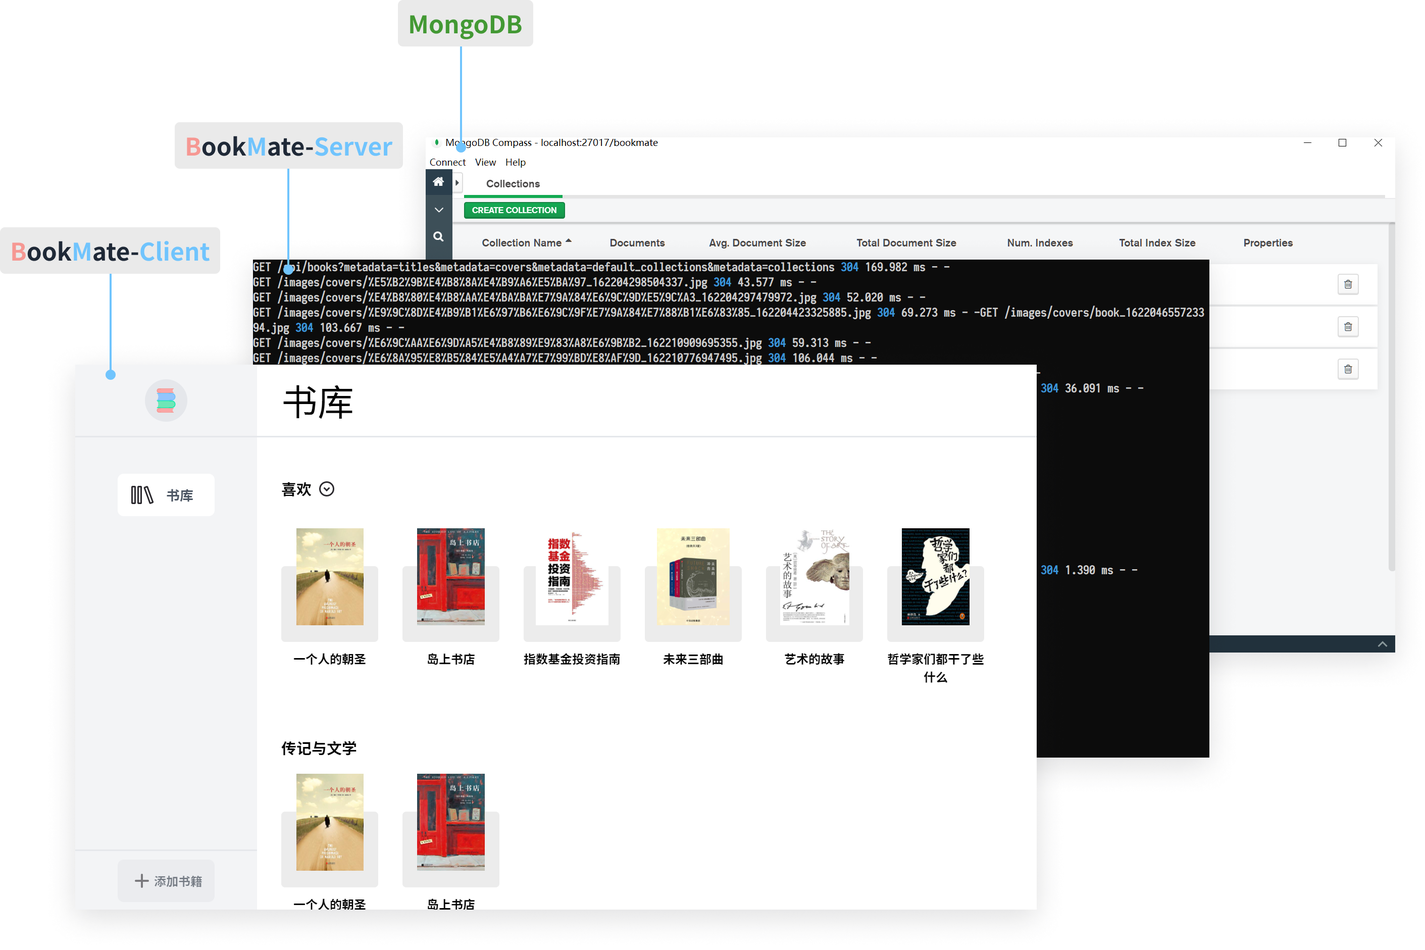
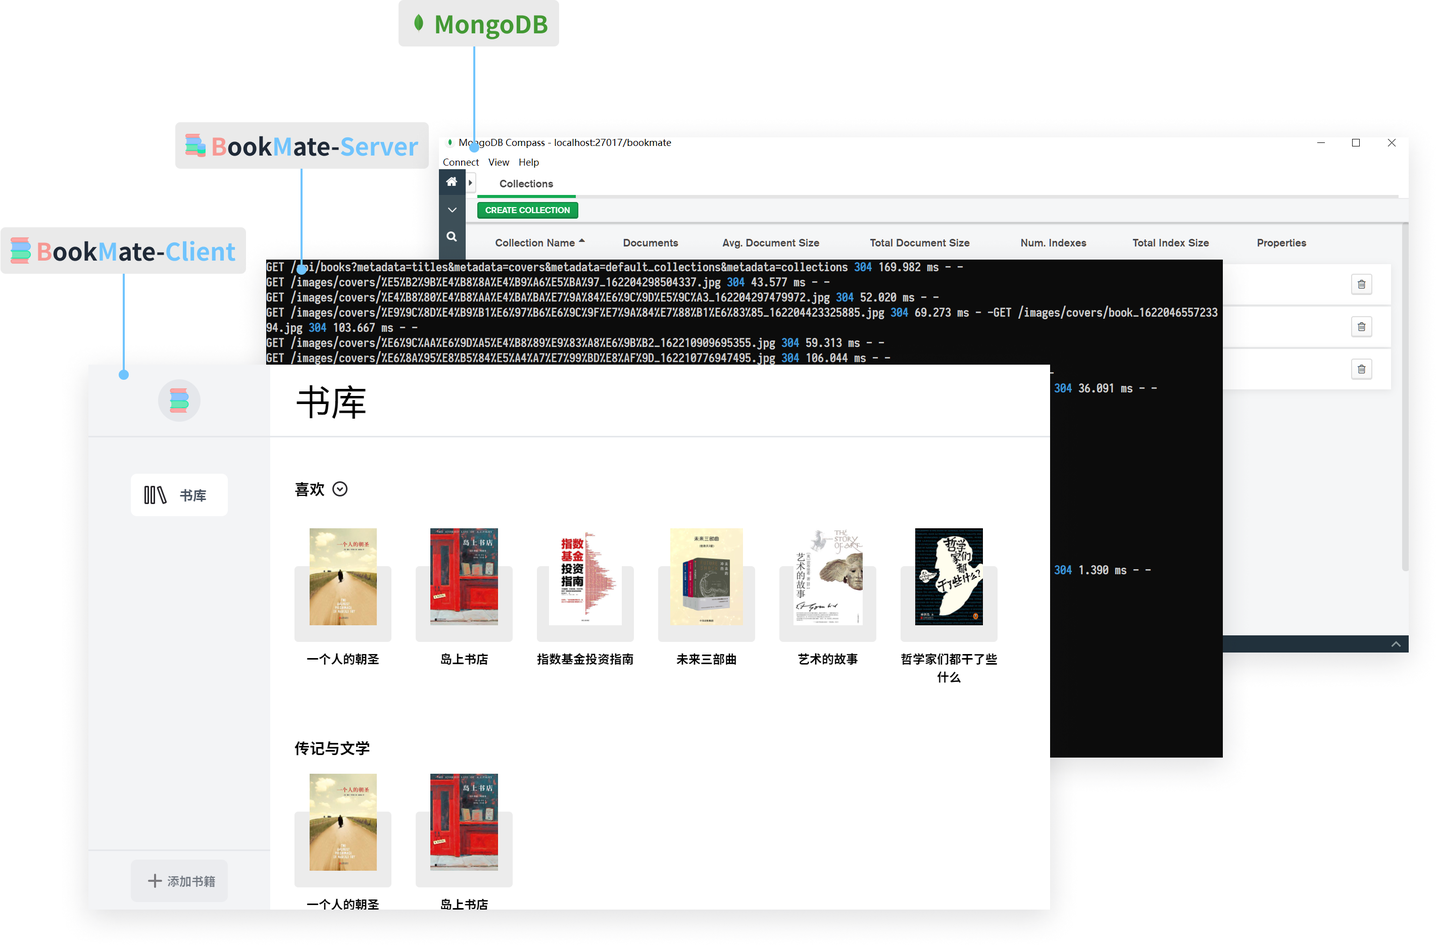
finish bookmate introductin page.

diff --git a/docs/src/index.html b/docs/src/index.html
@@ -13,32 +13,46 @@
 
 <body class="bg-gray-50 relative">
   <nav class="sticky top-0 bg-gray-50">
-    <div class="container mx-auto px-4 sm:px-16 py-2 flex justify-between">
-      <img class="w-6" src="./images/logos/BookMate.svg" alt="bookmate logo">
+    <div class="px-4 sm:px-8 md:px-16 py-2 flex justify-between">
+      <a class="px-4 py-2 hover:bg-gray-200 rounded" href="#">
+        <img class="w-6" src="./images/logos/BookMate.svg" alt="bookmate logo">
+      </a>
       <div class="flex space-x-2">
-        <button
-          class="px-4 py-2  bg-gray-200 hover:bg-green-500 text-gray-500 hover:text-white text-sm font-bold rounded transform transition-colors">
-          <!-- <svg class="w-6 h-6" viewBox="0 0 50 50" fill="currentColor" xmlns="http://www.w3.org/2000/svg">
-          <path
-            d="M25 50C31.901 50 37.793 47.5586 42.6758 42.6758C47.5586 37.793 50 31.901 50 25C50 18.099 47.5586 12.207 42.6758 7.32422C37.793 2.44141 31.901 0 25 0C18.099 0 12.207 2.44141 7.32422 7.32422C2.44141 12.207 0 18.099 0 25C0 31.901 2.44141 37.793 7.32422 42.6758C12.207 47.5586 18.099 50 25 50ZM25 4.19922C30.7292 4.19922 35.6283 6.23372 39.6973 10.3027C43.7663 14.3717 45.8008 19.2708 45.8008 25C45.8008 30.7292 43.7663 35.6283 39.6973 39.6973C35.6283 43.7663 30.7292 45.8008 25 45.8008C19.2708 45.8008 14.3717 43.7663 10.3027 39.6973C6.23372 35.6283 4.19922 30.7292 4.19922 25C4.19922 19.2708 6.23372 14.3717 10.3027 10.3027C14.3717 6.23372 19.2708 4.19922 25 4.19922ZM23.7305 34.9609L23.9258 35.2539H26.0742C26.2044 35.2539 26.2695 35.1562 26.2695 34.9609L32.5195 30.8594C33.6263 30.0781 33.8216 29.1016 33.1055 27.9297C32.4544 26.7578 31.4779 26.5299 30.1758 27.2461L27.2461 29.3945V16.6992C27.2461 15.2669 26.5625 14.5508 25.1953 14.5508C23.8281 14.5508 23.1445 15.2669 23.1445 16.6992V29.3945L20.2148 27.2461C18.9128 26.5299 17.9362 26.7578 17.2852 27.9297C16.6341 29.1667 16.8294 30.1432 17.8711 30.8594L23.7305 34.9609Z" />
-        </svg> -->
-          下载
-        </button>
-        <a
-          class="px-4 py-2 bg-gray-200 hover:bg-green-500 text-gray-500 hover:text-white text-sm font-bold rounded transform transition-colors"
+        <a class="px-4 py-2 flex items-center space-x-1 bg-gray-200 hover:bg-green-500 text-gray-500 hover:text-white rounded transform transition-colors"
+          href="#download">
+          <svg xmlns="http://www.w3.org/2000/svg" class="w-4 h-4" fill="currentColor"
+            class="bi bi-cloud-arrow-down-fill" viewBox="0 0 16 16">
+            <path
+              d="M8 2a5.53 5.53 0 0 0-3.594 1.342c-.766.66-1.321 1.52-1.464 2.383C1.266 6.095 0 7.555 0 9.318 0 11.366 1.708 13 3.781 13h8.906C14.502 13 16 11.57 16 9.773c0-1.636-1.242-2.969-2.834-3.194C12.923 3.999 10.69 2 8 2zm2.354 6.854-2 2a.5.5 0 0 1-.708 0l-2-2a.5.5 0 1 1 .708-.708L7.5 9.293V5.5a.5.5 0 0 1 1 0v3.793l1.146-1.147a.5.5 0 0 1 .708.708z" />
+          </svg>
+          <span class="text-sm font-bold hidden sm:block">下载</span>
+        </a>
+        <a class="px-4 py-2 flex items-center space-x-1 bg-gray-200 hover:bg-green-500 text-gray-500 hover:text-white rounded transform transition-colors"
+          href="#" target="_blank">
+          <svg xmlns="http://www.w3.org/2000/svg" class="w-4 h-4" fill="currentColor" viewBox="0 0 16 16">
+            <path
+              d="M9.293 0H4a2 2 0 0 0-2 2v12a2 2 0 0 0 2 2h8a2 2 0 0 0 2-2V4.707A1 1 0 0 0 13.707 4L10 .293A1 1 0 0 0 9.293 0zM9.5 3.5v-2l3 3h-2a1 1 0 0 1-1-1zM4.5 9a.5.5 0 0 1 0-1h7a.5.5 0 0 1 0 1h-7zM4 10.5a.5.5 0 0 1 .5-.5h7a.5.5 0 0 1 0 1h-7a.5.5 0 0 1-.5-.5zm.5 2.5a.5.5 0 0 1 0-1h4a.5.5 0 0 1 0 1h-4z" />
+          </svg>
+          <span class="text-sm font-bold hidden sm:block">文档</span>
+        </a>
+        <a class="px-4 py-2 flex items-center space-x-1 bg-gray-200 hover:bg-green-500 text-gray-500 hover:text-white rounded transform transition-colors"
           href="https://github.com/Benbinbin/BookMate" target="_blank">
-          Github
+          <svg xmlns="http://www.w3.org/2000/svg" class="w-4 h-4" fill="currentColor" viewBox="0 0 32 32">
+            <path
+              d="M16 0.396c-8.839 0-16 7.167-16 16 0 7.073 4.584 13.068 10.937 15.183 0.803 0.151 1.093-0.344 1.093-0.772 0-0.38-0.009-1.385-0.015-2.719-4.453 0.964-5.391-2.151-5.391-2.151-0.729-1.844-1.781-2.339-1.781-2.339-1.448-0.989 0.115-0.968 0.115-0.968 1.604 0.109 2.448 1.645 2.448 1.645 1.427 2.448 3.744 1.74 4.661 1.328 0.14-1.031 0.557-1.74 1.011-2.135-3.552-0.401-7.287-1.776-7.287-7.907 0-1.751 0.62-3.177 1.645-4.297-0.177-0.401-0.719-2.031 0.141-4.235 0 0 1.339-0.427 4.4 1.641 1.281-0.355 2.641-0.532 4-0.541 1.36 0.009 2.719 0.187 4 0.541 3.043-2.068 4.381-1.641 4.381-1.641 0.859 2.204 0.317 3.833 0.161 4.235 1.015 1.12 1.635 2.547 1.635 4.297 0 6.145-3.74 7.5-7.296 7.891 0.556 0.479 1.077 1.464 1.077 2.959 0 2.14-0.020 3.864-0.020 4.385 0 0.416 0.28 0.916 1.104 0.755 6.4-2.093 10.979-8.093 10.979-15.156 0-8.833-7.161-16-16-16z" />
+          </svg>
+          <span class="text-sm font-bold hidden sm:block">Github</span>
         </a>
       </div>
-
     </div>
   </nav>
   <header class="my-32 flex flex-col justify-center items-center">
     <div class="container">
       <img class="w-2/5 mx-auto" src="./images/logos/BookMate-logo-font.svg" alt="BookMate logo">
     </div>
-    <h2 class="my-16 md:my-16 text-center text-xl md:text-xl lg:text-2xl text-gray-600">一款开源的书摘管理软件</h2>
-    <button class="py-4 px-8 bg-green-400 hover:bg-green-500 text-white text-lg font-bold rounded-lg">下载</button>
+    <h2 class="my-16 md:my-16 text-center text-xl md:text-xl lg:text-2xl text-gray-500">一款<a
+        class="text-blue-500 underline" href="#license">开源</a>的书摘管理软件</h2>
+    <a class="py-4 px-8 bg-green-400 hover:bg-green-500 text-white text-lg font-bold rounded-lg" href="#download">下载</a>
   </header>
   <div class="container mx-auto my-16">
     <img class="w-4/5 mx-auto my-36" src="./images/screenshots/homepage.png" alt="homepage screenshot">
@@ -48,8 +62,8 @@
           class="flex-shrink-0 bg-gray-200 w-10 h-10  sm:w-20 sm:h-20 flex justify-center items-center  rounded-full">
           <img class="h-6 sm:h-10" src="./images/logos/BookMate.png" alt="bookmate logo">
         </div>
-        <div class="font-bold text-gray-500">
-          <h3 class="text-sm sm:text-base md:text-lg"><span style="color: #F69893">B</span>ook<span
+        <div class="hidden sm:block font-bold text-gray-500">
+          <h3 class="block text-sm sm:text-base md:text-lg"><span style="color: #F69893">B</span>ook<span
               style="color:#70C4FD">M</span>ate-<span style="color:#70C4FD">Client</span></h3>
           <p class="text-sm">交互界面</p>
         </div>
@@ -58,19 +72,18 @@
         <div class="flex-shrink-0 bg-gray-200 w-10 h-10 sm:w-20 sm:h-20 flex justify-center items-center  rounded-full">
           <img class="h-6 sm:h-10" src="./images/logos/BookMate-Server.png" alt="bookmate server logo">
         </div>
-        <div class="font-bold text-gray-500">
-          <h3 class=" text-sm sm:text-base md:text-lg"><span style="color: #F69893">B</span>ook<span
+        <div class="hidden sm:block font-bold text-gray-500">
+          <h3 class="block text-sm sm:text-base md:text-lg"><span style="color: #F69893">B</span>ook<span
               style="color:#70C4FD">M</span>ate-<span style="color:#70C4FD">Server</span></h3>
           <p class="text-sm">服务端</p>
         </div>
-
       </div>
       <div class="flex flex-col md:flex-row items-center space-x-4 space-y-4">
-        <div class="flex-shrink-0 bg-gray-200 w-10 h-10 sm:w-20 sm:h-20 flex justify-center items-center  rounded-full">
-          <img class="h-6 sm:h-10" src="./images/logos/mongodb-original.svg" alt="mongodb logo">
+        <div class="flex-shrink-0 bg-gray-200 w-10 h-10 sm:w-20 sm:h-20 flex justify-center items-center rounded-full">
+          <img class="h-6 sm:h-10" src="./images/logos/mongodb.svg" alt="mongodb logo">
         </div>
-        <div class="font-bold text-gray-500">
-          <h3 class=" text-sm sm:text-base md:text-lg"><span style="color: #439934">MongoDB</span></h3>
+        <div class="hidden sm:block font-bold text-gray-500">
+          <h3 class="block text-sm sm:text-base md:text-lg"><span style="color: #439934">MongoDB</span></h3>
           <p class="text-sm">数据库</p>
         </div>
       </div>
@@ -92,18 +105,18 @@
           <path
             d="M20.8333 16.6666C21.3859 16.6666 21.9158 16.8861 22.3065 17.2768C22.6972 17.6675 22.9167 18.1974 22.9167 18.75V31.25C22.9167 31.8025 22.6972 32.3324 22.3065 32.7231C21.9158 33.1138 21.3859 33.3333 20.8333 33.3333C20.2808 33.3333 19.7509 33.1138 19.3602 32.7231C18.9695 32.3324 18.75 31.8025 18.75 31.25V18.75C18.75 18.1974 18.9695 17.6675 19.3602 17.2768C19.7509 16.8861 20.2808 16.6666 20.8333 16.6666V16.6666ZM23.9583 11.4583C23.9583 12.2871 23.6291 13.082 23.0431 13.668C22.457 14.2541 21.6621 14.5833 20.8333 14.5833C20.0045 14.5833 19.2097 14.2541 18.6236 13.668C18.0376 13.082 17.7083 12.2871 17.7083 11.4583C17.7083 10.6295 18.0376 9.83466 18.6236 9.2486C19.2097 8.66255 20.0045 8.33331 20.8333 8.33331C21.6621 8.33331 22.457 8.66255 23.0431 9.2486C23.6291 9.83466 23.9583 10.6295 23.9583 11.4583V11.4583Z" />
         </svg>
-        <p class="text-xs text-gray-400 ">当前提供的 BookMate 版本运行在本地，你可以修改<a class="text-blue-500 underline"
-            href="https://github.com/Benbinbin/BookMate" target="_blank">源码</a> 将它部署在任何地方。
+        <p class="text-xs text-gray-400">当前提供的 BookMate 版本运行在本地，你可以修改<a class="text-blue-500 underline"
+            href="https://github.com/Benbinbin/BookMate" target="_blank">源码</a>将它部署在任何地方。
         </p>
       </div>
 
     </div>
   </div>
-  <section class="container w-4/5 py-28 mx-auto flex flex-col lg:flex-row justify-between space-x-8 space-y-6">
+  <section class="container w-4/5 py-28 mx-auto flex flex-col lg:flex-row justify-between lg:space-x-8 space-y-6">
     <div>
-      <h3 class="font-bold text-2xl"> <span class='px-1 highlight-blue'>添加书籍</span> </h3>
-      <p class="my-4">添加书籍时可以录入多种元数据，其中必须的只有书名。</p>
-      <ul class="list-disc mx-6 text-sm text-gray-500">
+      <h3 class="font-bold text-2xl text-gray-600"> <span class='px-1 highlight-blue'>添加书籍</span> </h3>
+      <p class="my-4 text-gray-500">添加书籍时可以录入多种元数据，其中必须的只有书名。</p>
+      <ul class="list-disc mx-6 text-sm text-gray-400">
         <li>书名（必须）</li>
         <li>目录</li>
         <li>作者</li>
@@ -115,15 +128,15 @@
     <img class="w-full lg:w-3/4 object-contain" src="./images/screenshots/metadata.png" alt="book metadata">
   </section>
   <section
-    class="container w-4/5 py-28 mx-auto flex flex-col lg:flex-row-reverse justify-between space-x-8 space-x-reverse space-y-6">
+    class="container w-4/5 py-28 mx-auto flex flex-col lg:flex-row-reverse justify-between lg:space-x-8 lg:space-x-reverse space-y-6">
     <div>
-      <h3 class="font-bold text-2xl lg:text-right"> <span class='px-1 highlight-blue'>添加书摘</span></h3>
-      <p class="my-4">提供两种方式为书籍添加书摘。可以将 Kindle 等阅读应用生成的书摘文件导入；也可以手动添加。</p>
-      <p class="my-4">导入的书摘也可以进行修改，书摘可以是常见的富文本内容，编辑器支持快捷键。</p>
+      <h3 class="font-bold text-2xl lg:text-right text-gray-600"> <span class='px-1 highlight-blue'>添加书摘</span></h3>
+      <p class="my-4 text-gray-500">提供两种方式为书籍添加书摘。可以将 Kindle 等阅读应用生成的书摘文件导入；也可以手动添加。</p>
+      <p class="my-4 text-gray-500">导入的书摘也可以进行修改，书摘可以是常见的富文本内容，编辑器支持快捷键。</p>
       <div class="flex space-x-4">
         <div>
-          <p class="my-4">批量导入</p>
-          <ul class="list-disc mx-6 text-sm text-gray-500">
+          <p class="my-4 text-gray-500">批量导入</p>
+          <ul class="list-disc mx-6 text-sm text-gray-400">
             <li>Kindle</li>
             <li class="text-gray-300">豆瓣</li>
             <li class="text-gray-300">多看阅读</li>
@@ -131,8 +144,8 @@
           </ul>
         </div>
         <div>
-          <p class="my-4">手动输入</p>
-          <ul class="list-disc mx-6 text-sm text-gray-500">
+          <p class="my-4 text-gray-500">手动输入</p>
+          <ul class="list-disc mx-6 text-sm text-gray-400">
             <li>标题</li>
             <li>链接</li>
             <li>图片</li>
@@ -148,13 +161,13 @@
       <img class="w-2/5 object-contain lg:ml-auto" src="./images/screenshots/input-quote.png" alt="book metadata">
     </div>
   </section>
-  <section class="container w-4/5 py-28 mx-auto flex flex-col lg:flex-row justify-between space-x-8 space-y-6">
+  <section class="container w-4/5 py-28 mx-auto flex flex-col lg:flex-row justify-between lg:space-x-8 space-y-6">
     <div>
-      <h3 class="font-bold text-2xl"> <span class='px-1 highlight-blue'>概述笔记</span> </h3>
-      <p class="my-4">读书要从薄到厚，再从厚到薄。</p>
-      <p class="my-4">基于书摘为书籍、章节梳理概述，便于对书籍有整体的掌握。</p>
-      <p class="my-4">也可以针对阅读遇到的问题，将研究过程整理成笔记，便于深入理解书籍。</p>
-      <ul class="list-disc mx-6 text-sm text-gray-500">
+      <h3 class="font-bold text-2xl text-gray-600"> <span class='px-1 highlight-blue'>概述笔记</span> </h3>
+      <p class="my-4 text-gray-500">读书要从薄到厚，再从厚到薄。</p>
+      <p class="my-4 text-gray-500">基于书摘为书籍、章节梳理概述，便于对书籍有整体的掌握。</p>
+      <p class="my-4 text-gray-500">也可以针对阅读遇到的问题，将研究过程整理成笔记，便于深入理解书籍。</p>
+      <ul class="list-disc mx-6 text-sm text-gray-400">
         <li>拖拽插入书摘</li>
         <li>标题</li>
         <li>链接</li>
@@ -166,11 +179,11 @@
     <img class="w-full lg:w-3/4 object-contain" src="./images/screenshots/summary.png" alt="book metadata">
   </section>
   <section
-    class="container w-4/5 py-28 mx-auto flex flex-col lg:flex-row-reverse justify-between space-x-8 space-x-reverse space-y-6">
+    class="container w-4/5 py-28 mx-auto flex flex-col lg:flex-row-reverse justify-between lg:space-x-8 lg:space-x-reverse space-y-6">
     <div>
-      <h3 class="font-bold text-2xl lg:text-right"> <span class='px-1 highlight-blue'>分享书摘</span> </h3>
-      <p class="my-4">分享功能可以将单篇或多篇书摘的原始数据转换为你喜欢的格式。</p>
-      <ul class="list-disc mx-6 text-sm text-gray-500">
+      <h3 class="font-bold text-2xl lg:text-right text-gray-600"> <span class='px-1 highlight-blue'>分享书摘</span> </h3>
+      <p class="my-4 text-gray-500">分享功能可以将单篇或多篇书摘的原始数据转换为你喜欢的格式。</p>
+      <ul class="list-disc mx-6 text-sm text-gray-400">
         <li>图片</li>
         <li>Markdown 文档</li>
         <li>JSON 文档</li>
@@ -178,6 +191,128 @@
     </div>
     <img class="w-full object-contain lg:w-1/2" src="./images/screenshots/share.png" alt="book metadata">
   </section>
+
+  <div>
+    <h2 id="download" class="mt-28 text-3xl font-bold text-center"><span class="highlight px-2">下载</span></h2>
+    <p class="my-8 text-sm font-bold text-gray-400 text-center">版本<span
+        class="px-2 py-1 mx-1 bg-blue-500 text-white rounded text-xs">V0.1.0-alpha</span>请选择合适的平台和下载源</p>
+    <div class="container w-4/5 mx-auto grid grid-cols-1 sm:grid-cols-2 gap-x-4 sm:divide-x divide-gray-300">
+      <div class="my-10">
+        <h3 class="text-2xl text-center font-bold"><span style="color: #F69893">B</span>ook<span
+            style="color:#70C4FD">M</span>ate
+        </h3>
+        <p class="text-sm text-center text-gray-400 font-bold">客户端、服务端</p>
+        <div class="my-4 flex flex-col lg:flex-row justify-center items-center space-y-2 lg:space-y-0 lg:space-x-2">
+          <a class="w-36 h-16 p-4 flex justify-start items-center bg-gray-200 hover:bg-green-500 text-gray-500  hover:text-white font-bold rounded-lg space-x-2"
+            href="#">
+            <img class="w-5" src="./images/icons/Windows.svg" alt="Windows icon">
+            <span>Windows</span>
+          </a>
+          <a class="w-36 h-16 p-4 flex justify-start items-center bg-gray-200 hover:bg-green-500 text-gray-500  hover:text-white font-bold rounded-lg space-x-2"
+            href="#">
+            <img class="w-8" src="./images/icons/macOS.png" alt="Windows icon">
+            <span>macOS</span>
+          </a>
+          <a class="w-36 h-16 p-4 flex justify-start items-center bg-gray-200 hover:bg-green-500 text-gray-500 hover:text-white font-bold rounded-lg space-x-2"
+            href="#">
+            <img class="w-8" src="./images/icons/Linux.png" alt="Windows icon">
+            <span>Linux</span>
+          </a>
+        </div>
+        <div class="my-2 flex justify-center items-center">
+          <svg class="flex-shrink-0 w-4 text-yellow-300 mr-1" viewBox="0 0 42 42" fill="currentColor"
+            xmlns="http://www.w3.org/2000/svg">
+            <path
+              d="M20.8333 4.16667C16.4131 4.16667 12.1738 5.92261 9.04822 9.04822C5.92261 12.1738 4.16667 16.4131 4.16667 20.8333C4.16667 25.2536 5.92261 29.4928 9.04822 32.6184C12.1738 35.7441 16.4131 37.5 20.8333 37.5C25.2536 37.5 29.4928 35.7441 32.6184 32.6184C35.7441 29.4928 37.5 25.2536 37.5 20.8333C37.5 16.4131 35.7441 12.1738 32.6184 9.04822C29.4928 5.92261 25.2536 4.16667 20.8333 4.16667V4.16667ZM0 20.8333C0 9.32708 9.32708 0 20.8333 0C32.3396 0 41.6667 9.32708 41.6667 20.8333C41.6667 32.3396 32.3396 41.6667 20.8333 41.6667C9.32708 41.6667 0 32.3396 0 20.8333Z" />
+            <path
+              d="M20.8333 16.6666C21.3859 16.6666 21.9158 16.8861 22.3065 17.2768C22.6972 17.6675 22.9167 18.1974 22.9167 18.75V31.25C22.9167 31.8025 22.6972 32.3324 22.3065 32.7231C21.9158 33.1138 21.3859 33.3333 20.8333 33.3333C20.2808 33.3333 19.7509 33.1138 19.3602 32.7231C18.9695 32.3324 18.75 31.8025 18.75 31.25V18.75C18.75 18.1974 18.9695 17.6675 19.3602 17.2768C19.7509 16.8861 20.2808 16.6666 20.8333 16.6666V16.6666ZM23.9583 11.4583C23.9583 12.2871 23.6291 13.082 23.0431 13.668C22.457 14.2541 21.6621 14.5833 20.8333 14.5833C20.0045 14.5833 19.2097 14.2541 18.6236 13.668C18.0376 13.082 17.7083 12.2871 17.7083 11.4583C17.7083 10.6295 18.0376 9.83466 18.6236 9.2486C19.2097 8.66255 20.0045 8.33331 20.8333 8.33331C21.6621 8.33331 22.457 8.66255 23.0431 9.2486C23.6291 9.83466 23.9583 10.6295 23.9583 11.4583V11.4583Z" />
+          </svg>
+          <p class="text-gray-400 text-sm">安装及使用教程请查看<a class="text-blue-500 underline rounded" href="#"
+              target="_blank">文档</a>
+          </p>
+        </div>
+        <div class="flex justify-center items-center space-x-2">
+          <span class="text-gray-400 text-sm">其他下载源</span>
+          <a class="p-2 flex justify-start items-center space-x-1 bg-gray-200 hover:bg-green-500 hover:text-white rounded"
+            href="#">
+            <svg class="w-4 h-4" fill="currentColor" role="img" viewBox="0 0 24 24" xmlns="http://www.w3.org/2000/svg">
+              <title>Gitee icon</title>
+              <path
+                d="M11.984 0A12 12 0 0 0 0 12a12 12 0 0 0 12 12 12 12 0 0 0 12-12A12 12 0 0 0 12 0a12 12 0 0 0-.016 0zm6.09 5.333c.328 0 .593.266.592.593v1.482a.594.594 0 0 1-.593.592H9.777c-.982 0-1.778.796-1.778 1.778v5.63c0 .327.266.592.593.592h5.63c.982 0 1.778-.796 1.778-1.778v-.296a.593.593 0 0 0-.592-.593h-4.15a.592.592 0 0 1-.592-.592v-1.482a.593.593 0 0 1 .593-.592h6.815c.327 0 .593.265.593.592v3.408a4 4 0 0 1-4 4H5.926a.593.593 0 0 1-.593-.593V9.778a4.444 4.444 0 0 1 4.445-4.444h8.296Z" />
+            </svg>
+            <span class="font-bold text-xs">Gitee</span>
+          </a>
+          <a class="p-2 flex justify-start items-center space-x-1 bg-gray-200 hover:bg-green-500 hover:text-white rounded"
+            href="#">
+            <svg xmlns="http://www.w3.org/2000/svg" class="w-4 h-4" fill="currentColor" class="bi bi-cloud-fill"
+              viewBox="0 0 16 16">
+              <title>Nutstore icon</title>
+              <path
+                d="M4.406 3.342A5.53 5.53 0 0 1 8 2c2.69 0 4.923 2 5.166 4.579C14.758 6.804 16 8.137 16 9.773 16 11.569 14.502 13 12.687 13H3.781C1.708 13 0 11.366 0 9.318c0-1.763 1.266-3.223 2.942-3.593.143-.863.698-1.723 1.464-2.383z" />
+            </svg>
+            <span class="font-bold text-xs">坚果云</span>
+          </a>
+          </p>
+        </div>
+      </div>
+      <div class="my-10">
+        <h3 class="text-2xl text-center font-bold" style="color: #439934">MongoDB</h3>
+        <p class="text-sm text-center text-gray-400 font-bold">数据库</p>
+        <div class="my-4 flex flex-col justify-center items-center">
+          <a class="w-36 h-16 p-4 flex justify-center items-center bg-gray-200 hover:bg-green-500 text-gray-500  hover:text-white font-bold rounded-lg space-x-2"
+            href="https://www.mongodb.com/try/download/community" target="_blank">
+            <img class="w-8" src="./images/logos/mongodb.svg" alt="mongodb icon">
+            <span>官网下载</span>
+          </a>
+          <div class="my-6 flex items-center">
+            <svg class="flex-shrink-0 w-4 text-yellow-300 mr-1" viewBox="0 0 42 42" fill="currentColor"
+              xmlns="http://www.w3.org/2000/svg">
+              <path
+                d="M20.8333 4.16667C16.4131 4.16667 12.1738 5.92261 9.04822 9.04822C5.92261 12.1738 4.16667 16.4131 4.16667 20.8333C4.16667 25.2536 5.92261 29.4928 9.04822 32.6184C12.1738 35.7441 16.4131 37.5 20.8333 37.5C25.2536 37.5 29.4928 35.7441 32.6184 32.6184C35.7441 29.4928 37.5 25.2536 37.5 20.8333C37.5 16.4131 35.7441 12.1738 32.6184 9.04822C29.4928 5.92261 25.2536 4.16667 20.8333 4.16667V4.16667ZM0 20.8333C0 9.32708 9.32708 0 20.8333 0C32.3396 0 41.6667 9.32708 41.6667 20.8333C41.6667 32.3396 32.3396 41.6667 20.8333 41.6667C9.32708 41.6667 0 32.3396 0 20.8333Z" />
+              <path
+                d="M20.8333 16.6666C21.3859 16.6666 21.9158 16.8861 22.3065 17.2768C22.6972 17.6675 22.9167 18.1974 22.9167 18.75V31.25C22.9167 31.8025 22.6972 32.3324 22.3065 32.7231C21.9158 33.1138 21.3859 33.3333 20.8333 33.3333C20.2808 33.3333 19.7509 33.1138 19.3602 32.7231C18.9695 32.3324 18.75 31.8025 18.75 31.25V18.75C18.75 18.1974 18.9695 17.6675 19.3602 17.2768C19.7509 16.8861 20.2808 16.6666 20.8333 16.6666V16.6666ZM23.9583 11.4583C23.9583 12.2871 23.6291 13.082 23.0431 13.668C22.457 14.2541 21.6621 14.5833 20.8333 14.5833C20.0045 14.5833 19.2097 14.2541 18.6236 13.668C18.0376 13.082 17.7083 12.2871 17.7083 11.4583C17.7083 10.6295 18.0376 9.83466 18.6236 9.2486C19.2097 8.66255 20.0045 8.33331 20.8333 8.33331C21.6621 8.33331 22.457 8.66255 23.0431 9.2486C23.6291 9.83466 23.9583 10.6295 23.9583 11.4583V11.4583Z" />
+            </svg>
+            <p class="text-gray-400 text-sm">推荐<span class="highlight">同时安装</span><a
+                class="p-1 mx-1 text-xs text-white underline bg-blue-500 rounded"
+                href="https://www.mongodb.com/try/download/compass" target="_blank">MongoDB Compass</a>
+            </p>
+          </div>
+        </div>
+      </div>
+    </div>
+  </div>
+
+  <div class="my-10">
+    <h2 id="license" class="mt-28 text-3xl font-bold text-center"><span class="highlight px-2">协议</span></h2>
+    <p class="m-8 text-center text-sm font-bold text-gray-500 ">客户端
+        <!-- <span style="color: #F69893">B</span>ook<span style="color:#70C4FD">M</span>ate</span>-<span
+        style="color:#70C4FD">Client</span> 和服务端 <span class="text-center "><span
+          style="color: #F69893">B</span>ook<span style="color:#70C4FD">M</span>ate</span>-<span
+        style="color:#70C4FD">Server</span>  -->
+        <span class="highlight">BookMate-Client</span> 和服务端 <span class="highlight">BookMate-Server</span>
+        遵循 <a class="text-blue-500 underline"
+        href="https://github.com/Benbinbin/BookMate/blob/main/LICENSE" target="_blank">MIT</a> 协议</p>
+  </div>
+  <footer class="bg-gray-200 py-10">
+    <div class="container w-4/5 mx-auto flex flex-col sm:flex-row space-y-2 sm:space-y-0 justify-between items-center">
+      <a href="https://github.com/Benbinbin" target="_blank">
+        <img class="w-10 h-10 rounded-full" src="https://avatars.githubusercontent.com/u/40909550" alt="avatar icon">
+      </a>
+      <p class="text-center text-sm">
+        &copy;<span id="year"></span>
+        <a class="author text-blue-500" href="https://github.com/Benbinbin" target="_blank">BenThomson</a>. All Right
+        Reserved.
+      </p>
+      <a href="mailto:benthomsonbin@gmail.com">
+        <img class="w-8 h-8" src="./images/icons/email.svg" alt="email icon" />
+        <!-- <span class="hidden sm:block text-xs">benthomsonbin@gmail.com</span> -->
+      </a>
+    </div>
+  </footer>
 </body>
+<script>
+  const dom = document.getElementById('year');
+  dom.innerHTML = new Date().getFullYear();
+</script>
 
 </html>

diff --git a/docs/src/style.css b/docs/src/style.css
@@ -1,3 +1,7 @@
+  html {
+  scroll-behavior: smooth;
+}
+
   .highlight {
     text-decoration: none;
     box-shadow: inset 0 -0.5em 0 rgba(243, 238, 102, 0.8);
